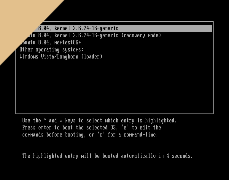
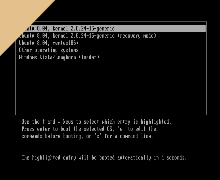
added a couple of new images

Changed region(s): [[0.0, 0.0, 0.9545, 0.7778], [0.0818, 0.8333, 0.8455, 0.8889]]

diff --git a/stuff.html b/stuff.html
@@ -156,7 +156,7 @@
         <div class="modal-content">
         <div class="modal-header">
             <span class="close">&times;</span>
-            <h2>Soak it up</h2>
+            <h2>Everything else</h2>
         </div>
         <div class="modal-body">
             <p>
@@ -168,13 +168,52 @@
             <p>Some other text...</p>
         </div>
         <div class="modal-footer">
-            <h3>Key lessons</h3>
+            <h3>Random stuff</h3>
         </div>
         </div>
     </div>
 
+    <div id="myModal9" class="modal">
+        <div class="modal-content">
+        <div class="modal-header">
+            <span class="close">&times;</span>
+            <h2>Dual boot</h2>
+        </div>
+        <div class="modal-body">
+            <p>
+                One of the first things I wanted to do was chage the grub this video helpedd
+                https://www.youtube.com/watch?v=QBzMuu4AumQ 
+                ADD Photo of the grub screen
+                Really easy to do and makes you life easier you  can change the order and have niove littl picture. WANTED windows to be at  the top as that is the one that boot by default, this is important as I use Team Viewer a bit and if I need to restart my computer remotely I need windows to reload.
+                </p>
+            <p>Some other text...</p>
+        </div>
+        <div class="modal-footer">
+            <h3>Random stuff</h3>
+        </div>
+        </div>
+    </div>
 
-
+    <div id="myModal10" class="modal">
+        <div class="modal-content">
+        <div class="modal-header">
+            <span class="close">&times;</span>
+            <h2>Productivity - One Note</h2>
+        </div>
+        <div class="modal-body">
+            <p>
+                One of the first things I wanted to do was chage the grub this video helpedd
+                https://www.youtube.com/watch?v=QBzMuu4AumQ 
+                ADD Photo of the grub screen
+                Really easy to do and makes you life easier you  can change the order and have niove littl picture. WANTED windows to be at  the top as that is the one that boot by default, this is important as I use Team Viewer a bit and if I need to restart my computer remotely I need windows to reload.
+                </p>
+            <p>Some other text...</p>
+        </div>
+        <div class="modal-footer">
+            <h3>Random stuff</h3>
+        </div>
+        </div>
+    </div>
 
     
 
@@ -186,14 +225,6 @@
 
 
     <body class="container" id="container">
-
-
-
-
-
-
-
-
 
         <div class="header">
             <img src="images/jkl.png" class="headerImage">
@@ -247,7 +278,7 @@
 
             <figure class="gallary-frame">
                 <a class="modal-button menu_links"> 
-                    <img class="gallery-img gal1" href="#myModal3" src="images/stuff/test2.png">
+                    <img class="gallery-img gal1" href="#myModal3" src="images/stuff/practice.png">
                 </a>    
                 <figcaption class="griditem"> Practice, practice, practice</figcaption>
             </figure>
@@ -294,48 +325,18 @@
             </figure>
 
             <figure class="gallary-frame prod">
-                <img class="gallery-img" src="images/stuff/p.png">
+                <a class="modal-button menu_links"> 
+                    <img class="gallery-img" href="#myModal9" src="images/stuff/p.png">
+                </a>
                 <figcaption class="griditem">Dual boot</figcaption>
             </figure>
 
-            <figure class="gallary-frame">
-                <img class="gallery-img" src="images/stuff/p.png">
-                <figcaption>Productivity - One </figcaption>
+            <figure class="gallary-frame prod">
+                <a class="modal-button menu_links"> 
+                    <img class="gallery-img" href="#myModal10" src="images/stuff/p.png">
+                </a>
+                <figcaption>Productivity - One Note</figcaption>
             </figure>
-
-            <figure class="gallary-frame">
-                <img class="gallery-img" src="images/stuff/p.png">
-                <figcaption>Apple</figcaption>
-            </figure>  <script src="script.js"></script>
-            </figcaption>
-            </figure>
-            <figure class="gallary-frame">
-                <img class="gallery-img" src="images/stuff/p.png">
-                <figcaption>pie</figcaption>
-            </figure>
-
-
-            <figure class="gallary-frame">
-                <img class="gallery-img" src="images/stuff/p.png">
-                <figcaption>Apple</figcaption>
-            </figure>
-            <figure class="gallary-frame">
-                <img class="gallery-img" src="images/stuff/p.png">
-                <figcaption>Apple</figcaption>
-            </figure>
-            <figure class="gallary-frame">
-                <img class="gallery-img" src="images/stuff/p.png">
-                <figcaption>Apple</figcaption>
-            </figure>
-            <figure class="gallary-frame">
-                <img class="gallery-img" src="images/stuff/p.png">
-                <figcaption>Apple</figcaption>
-            </figure>
-            <figure class="gallary-frame">
-                <img class="gallery-img" src="images/stuff/p.png">
-                <figcaption>pie</figcaption>
-            </figure>
-
 
 
 
